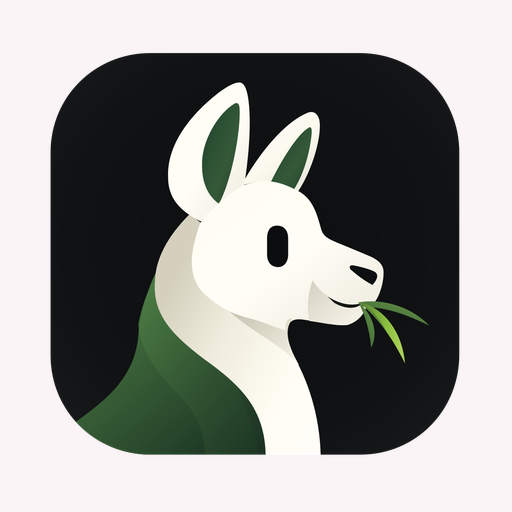
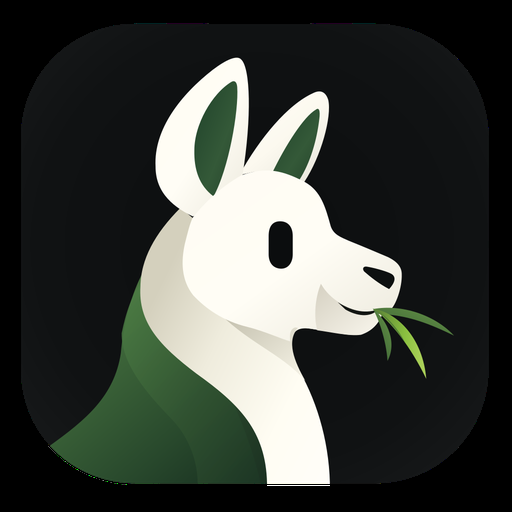
Ship the Play store artwork, voice screenshot and contact details

diff --git a/docs/play_store/README.md b/docs/play_store/README.md
@@ -64,11 +64,15 @@ working tree with `scripts/build_android_bundle.sh`:
   Play review sheet when InstaLLM was installed from Play.
 - Store graphics on disk: `icon_512.png` is 512x512 with no alpha channel,
   `feature_graphic_1024x500.png` is 1024x500 with no alpha channel. Phone
-  screenshots `screens/1.png` to `screens/5.png` are each 1080x2160 — 2:1, the
+  screenshots `screens/1.png` to `screens/6.png` are each 1080x2160 — 2:1, the
   widest aspect Play accepts — retaken on 17 November 2026 on a OnePlus 7T
   (HD1901, Android 12) in light theme, from a 1080x2400 capture with the status
   and navigation bars cropped out. Order: 1 chat, 2 drawer, 3 models,
-  4 settings, 5 new chat.
+  4 settings, 5 new chat, 6 voice mode.
+- Store artwork replaced on 17 November 2026: the feature graphic is the
+  deep-green banner (cream wordmark, launcher tile, the app's orb rings) and the
+  icon is the launcher tile full bleed, so the listing matches what installed
+  users see.
 - `flutter analyze` clean, 44/44 tests passing.
 
 Earlier checks, 14 November 2026, before the star and Play nudges were added:
@@ -102,18 +106,16 @@ Play.
 
 ## 4. Play Console checklist
 
-0. **Developer account** — a personal account created after 13 November 2023
-   must run a closed test with at least 12 testers opted in continuously for the
-   preceding 14 days before Play Console enables Production; internal testing
-   does not satisfy it, and production access is granted only after applying
-   from the Dashboard
+0. **Developer account** — this release goes through an organisation account,
+   which is exempt from the 12-testers-for-14-days closed-test rule that applies
+   to personal accounts created after 13 November 2023
    ([Play Console Help](https://support.google.com/googleplay/android-developer/answer/14151465)).
-   Recruit more than 12 so ordinary dropouts do not reset the streak. An
-   organisation account is exempt, and so is any account created before that
-   date.
+   Production is available immediately; the internal and closed tracks are still
+   the cheapest way to test a Play-signed install first.
 1. **Create app** — name `InstaLLM`, default language English (US), app, free.
 2. **App content**:
-   - Privacy policy URL (host `privacy_policy.md` publicly; see section 5).
+   - Privacy policy URL: `https://prady.website/privacy/insta-llm/` (already
+     published; `privacy_policy.md` is the repository copy).
    - Ads: **No ads**.
    - Data safety: **no data collected or shared**; all processing is on-device.
      The only network traffic is a model download the user starts, which is not
@@ -136,33 +138,26 @@ Play.
    - Short description, full description: `listing.md`.
    - App icon: `icon_512.png` (512x512).
    - Feature graphic: `feature_graphic_1024x500.png` (1024x500).
-   - Phone screenshots: `screens/1.png` to `screens/5.png`, each measured at
+   - Phone screenshots: `screens/1.png` to `screens/6.png`, each measured at
      1080x2160, which is exactly 2:1, the widest aspect Play accepts (minimum
      320 px, maximum 3840 px, long side at most twice the short side). Order:
-     1 chat, 2 drawer with Chats | Bots, 3 models, 4 settings, 5 Bots tab.
+     1 chat, 2 drawer with Chats | Bots, 3 models, 4 settings, 5 new chat,
+     6 voice mode.
    - Category: Tools. Tags: local AI, offline, privacy.
 4. **Release**: enable Play App Signing, upload the `.aab` to internal testing
    first and install from the Play link to confirm the bundle installs and the
-   review prompt path resolves, then run the closed test from step 0 and
-   promote to production from the Dashboard.
+   review prompt path resolves, then promote to production.
 
 If `1.6.0+1` has already been uploaded, bump to `1.6.1+2` and rebuild before
 uploading: Play rejects a repeated version code.
 
-## 5. Remaining steps (user only)
+## 5. Remaining steps
 
-1. Add the support email to `docs/play_store/privacy_policy.md`, line 57
-   (`[SUPPORT EMAIL]`), and to `docs/play_store/listing.md`, line 53
-   (`Support email: [SUPPORT EMAIL]`).
-2. Host the whole of `docs/play_store/privacy_policy.md` (lines 1-57) at a
-   public URL (GitHub Pages, the project site, or any static host); hosting
-   changes no file in this repository.
-3. Put that URL on `docs/play_store/listing.md`, line 55
-   (`Privacy policy: [PRIVACY POLICY URL]`), and give it to Play Console in
-   App content → Privacy policy.
-4. Capture screenshots from a physical phone if the emulator frames are not
-   wanted: `screens/1.png` to `screens/5.png`, any size from 320 to 3840 px
-   with the long side at most twice the short side.
-5. Add an in-app way to report offensive AI output, or record why the
+Done: store graphics (`icon_512.png`, `feature_graphic_1024x500.png`), the six
+1080x2160 phone screenshots, the support email (`info@prady.website`) and the
+published privacy policy URL
+(`https://prady.website/privacy/insta-llm/`).
+
+1. Add an in-app way to report offensive AI output, or record why the
    AI-generated content policy does not apply, before the first review.
-6. Run the closed test from step 0 and apply for production access.
+2. Upload the `.aab` (see section 4, step 4).

diff --git a/docs/play_store/privacy_policy.md b/docs/play_store/privacy_policy.md
@@ -1,5 +1,8 @@
 # InstaLLM privacy policy
 
+Published at <https://prady.website/privacy/insta-llm/>, which is the URL given
+to Play Console. This file is the repository copy of the same policy.
+
 Last updated: 14 November 2026
 
 InstaLLM runs AI models on your device. It has no account, no analytics, no
@@ -54,4 +57,4 @@ This policy is updated in the repository at
 
 ## Contact
 
-[SUPPORT EMAIL]
+info@prady.website

diff --git a/docs/play_store/listing.md b/docs/play_store/listing.md
@@ -50,6 +50,6 @@ Tools
 
 ## Contact details
 
-Support email: [SUPPORT EMAIL]
+Support email: info@prady.website
 Website: https://github.com/PradyX/instaLLM
-Privacy policy: [PRIVACY POLICY URL]
+Privacy policy: https://prady.website/privacy/insta-llm/
